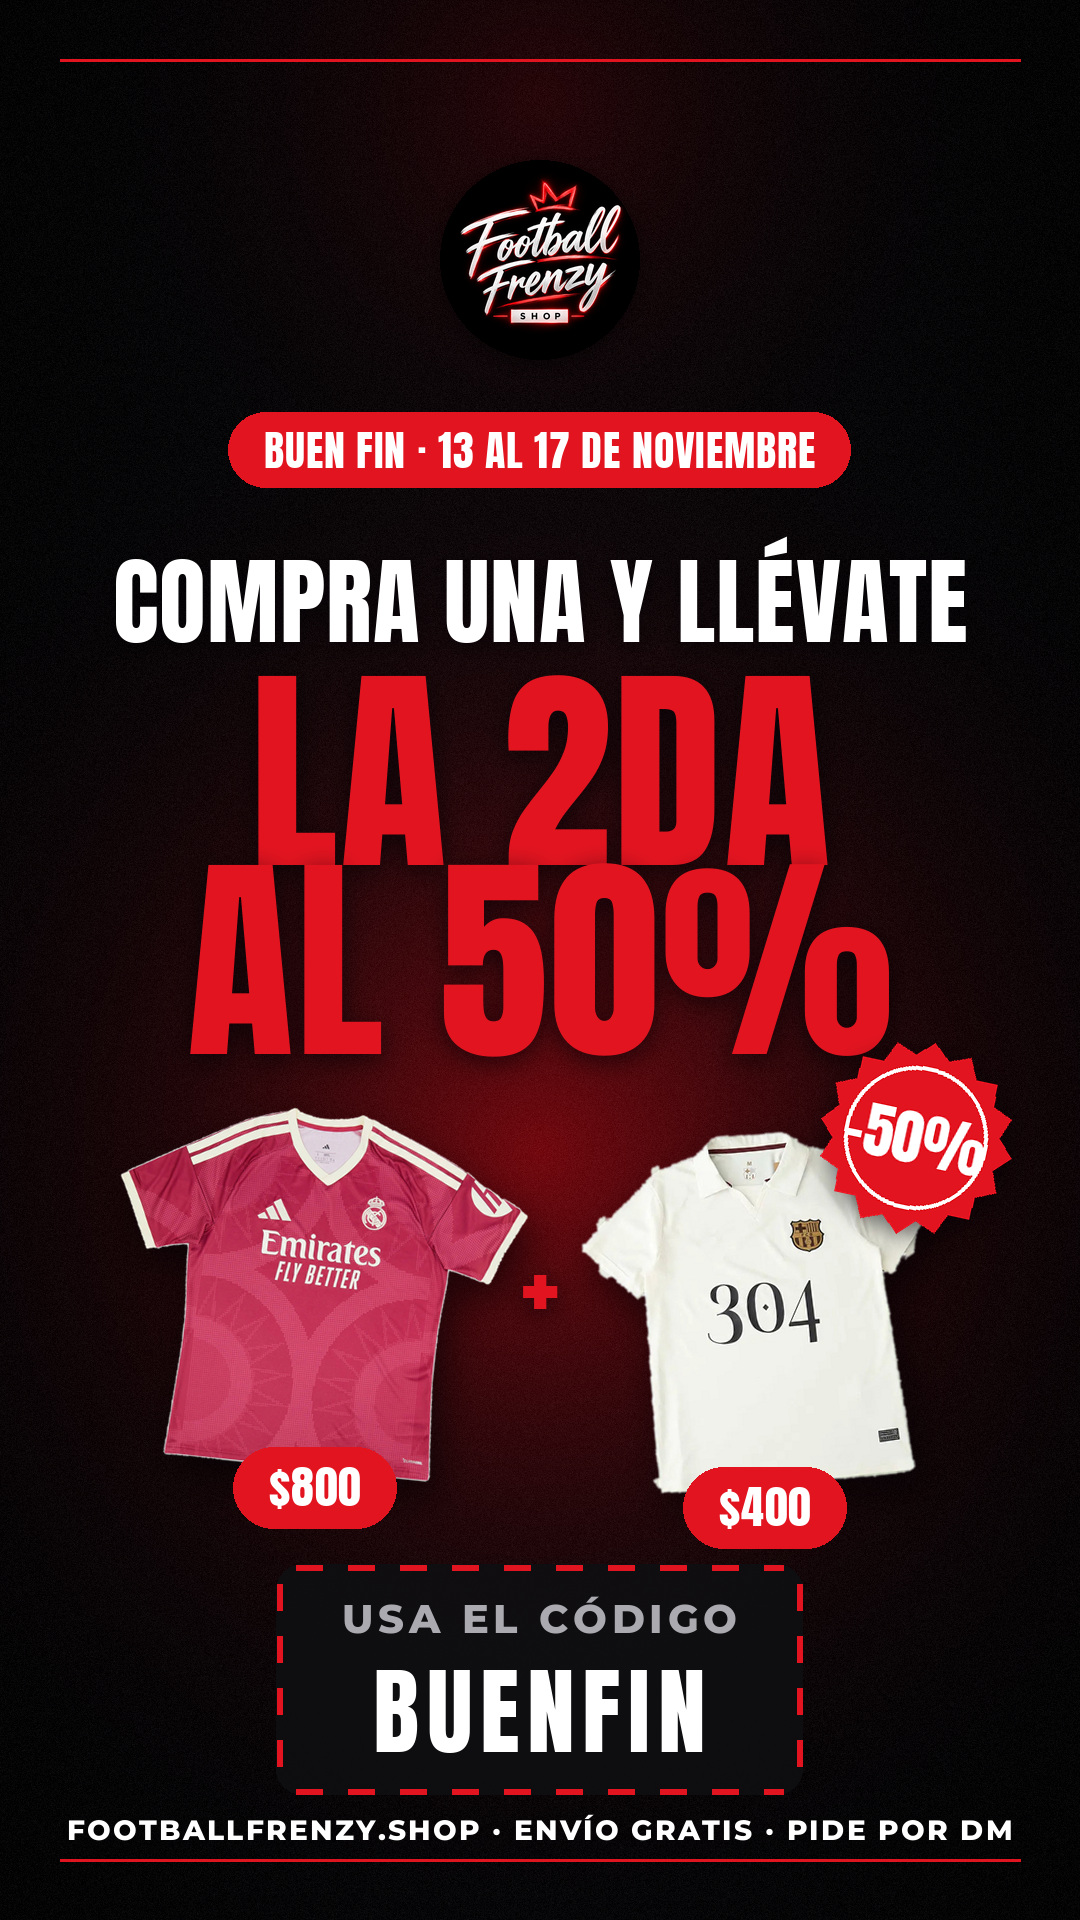
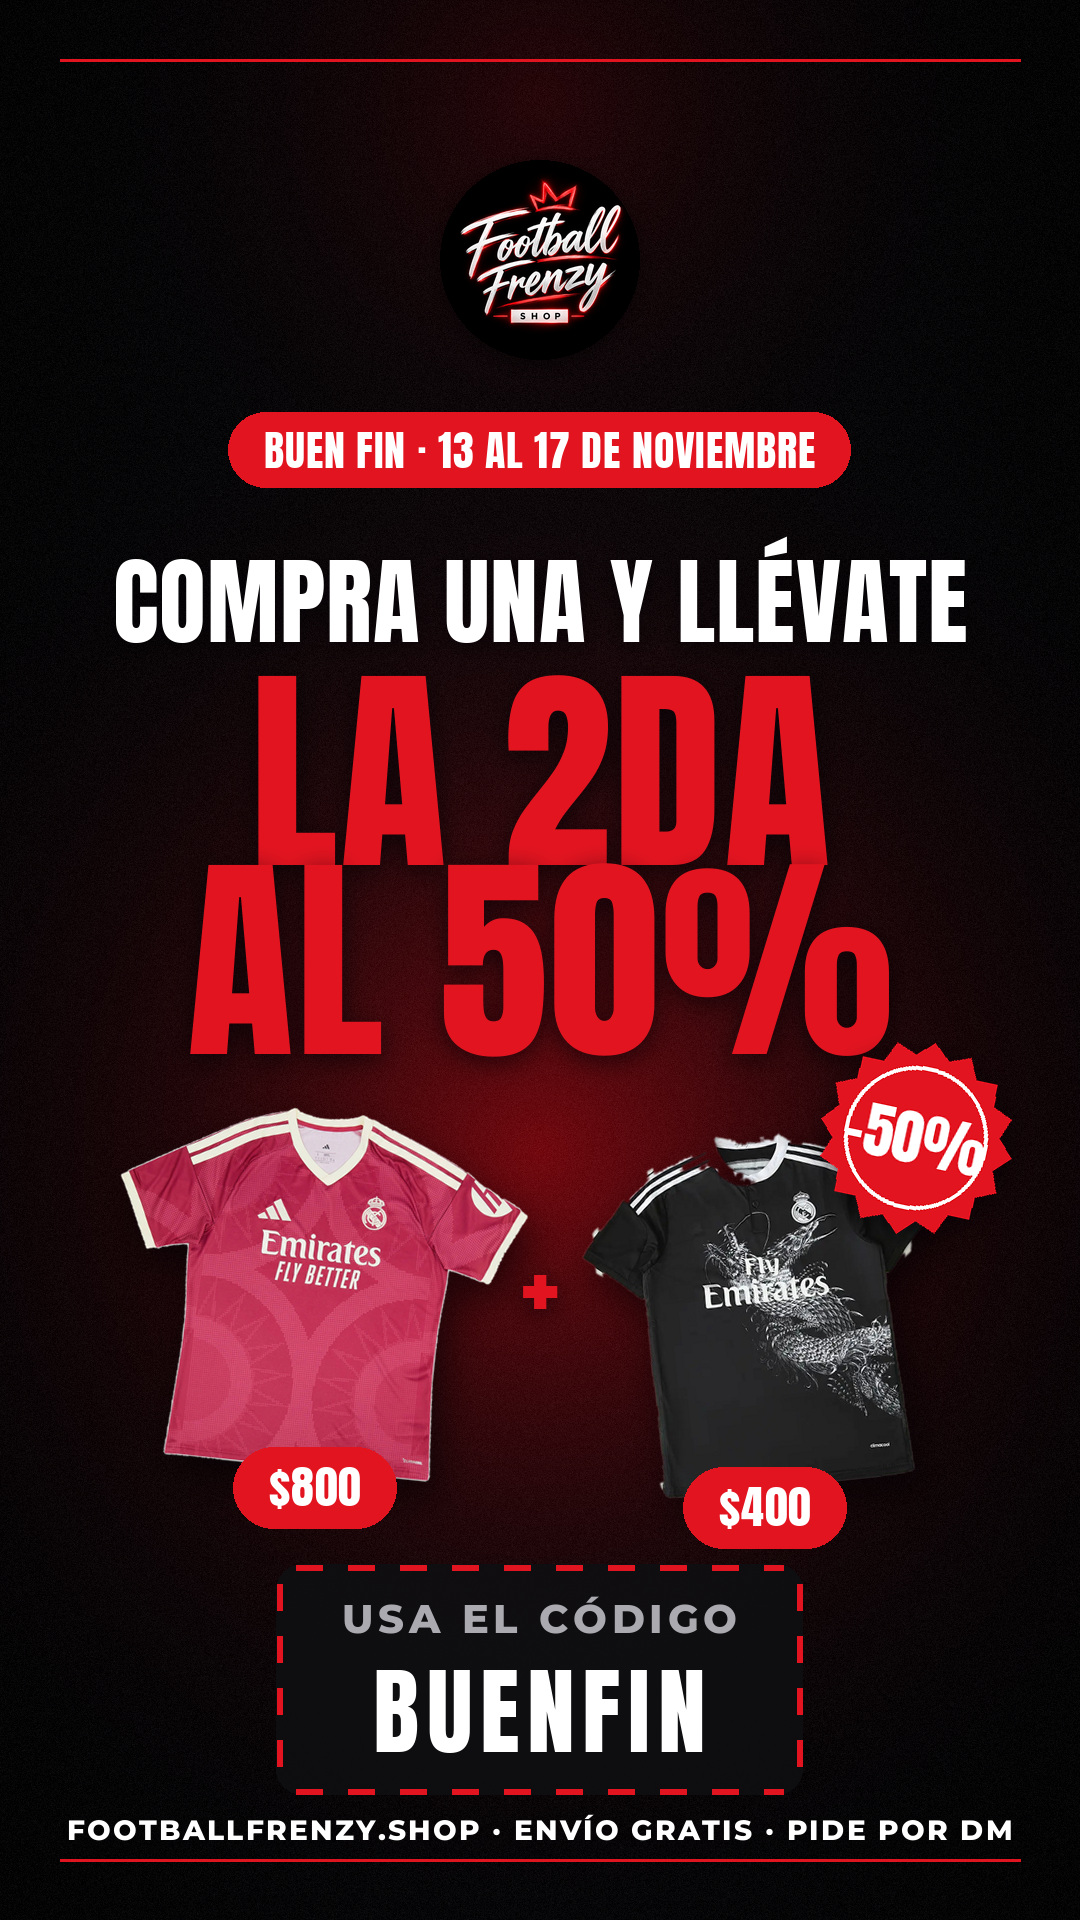
2da al 50%: Real Madrid 14/15 tercera retro en lugar de Barça
Claude-Session: https://claude.ai/code/session_01Y3XEkftw7SELToetvsGNVM

Changed region(s): [[0.5194, 0.5625, 0.8556, 0.7812]]

diff --git a/ads/buenfin_2da50.py b/ads/buenfin_2da50.py
@@ -11,7 +11,7 @@ from buenfin_logo import jersey, shadow
 
 OUT = g.HERE + "out/buenfin_2da50/"
 RED, RED2, WHITE, GREY = (226, 20, 32), (150, 10, 18), (255, 255, 255), (170, 170, 176)
-PAIR = [("cl_rm_third26.png", -6), ("cl_fcb_lamine.png", 6)]
+PAIR = [("cl_rm_third26.png", -6), ("rm1415_third.png", 6)]
 
 
 def bg(W, H):
